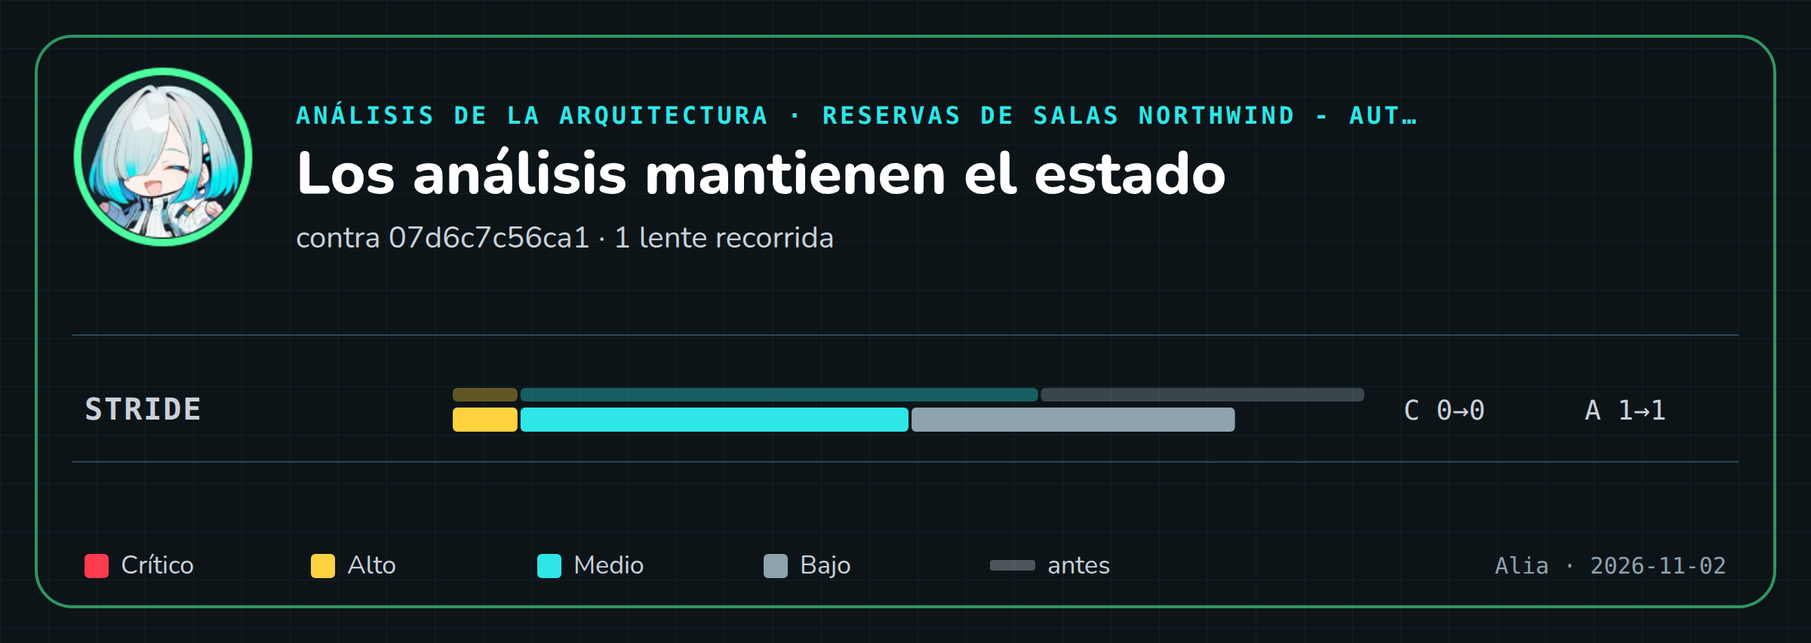
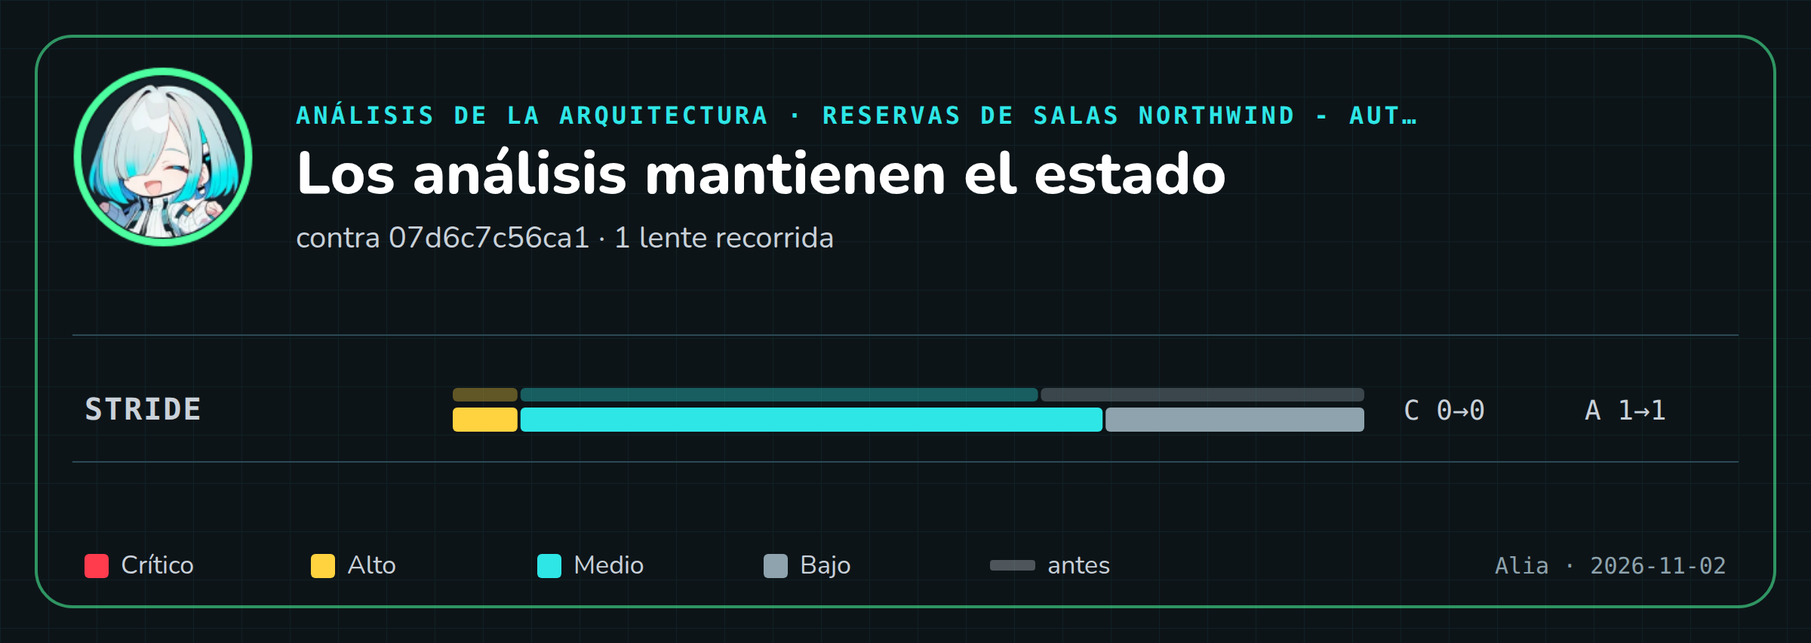
analysis: stride para #126

Changed region(s): [[0.5, 0.6103, 0.625, 0.6714], [0.6562, 0.6103, 0.7812, 0.6714]]

diff --git a/analysis/STRIDE-2026-11-02.md b/analysis/STRIDE-2026-11-02.md
@@ -8,13 +8,13 @@
 
 ## 1. Resumen Ejecutivo <!-- SECTION: Executive Summary -->
 
-La amenaza de mayor severidad es T7-D: la API pública del `Servicio de Reservas` (I-02, detrás del ingress) no documenta límite de tasa en el ingress ni en el servicio. Un cliente sin token puede saturar las 2 réplicas con solicitudes que terminan en 401 y dejar sin servicio a miembros y recepción de las 3 sedes.
+La amenaza de mayor severidad es T8-D: el ingress del clúster expone la API del `Servicio de Reservas` (I-02) a Internet sin un límite de tasa documentado. Un atacante sin token puede saturar las 2 réplicas, porque cada solicitud rechazada con 401 consume validación JWT.
 
-La postura general es buena en identidad y autorización: OIDC con PKCE (ADR-002), tokens de 5 minutos solo en memoria (ADR-104), validación RS256 con JWKS en cada solicitud, autorización por rol `recepcion` y atributo `sede` (ADR-105) y credenciales de base de datos desde el gestor de secretos del clúster (ADR-005). El análisis evalúa 5 fronteras de confianza y registra 12 hallazgos: 1 High, 6 Medium, 5 Low.
+El modelo cubre 5 fronteras de confianza y 30 evaluaciones STRIDE: 16 pasan y 14 son hallazgos (1 High, 9 Medium, 4 Low). La autenticación es sólida: OIDC con PKCE, tokens de 5 minutos solo en memoria (ADR-104), validación RS256 por JWKS en cada solicitud y autorización por rol `recepcion` y `sede` (ADR-105).
 
-Los hallazgos Medium se concentran en controles no documentados: integridad del Portal de Reservas en el CDN (CSP, SRI, TLS), cifrado en reposo de la `Base de Datos de Reservas`, privilegios del usuario PostgreSQL y del contenedor, inmutabilidad del registro de auditoría y la caché JWKS ante una caída del `Proveedor de Identidad Northwind`.
+Los hallazgos Medium se concentran en dos frentes. El primero es la entrega del `Portal de Reservas` por CDN, sin TLS, CSP ni SRI documentados (T1-S, T2-T). El segundo es la `Base de Datos de Reservas`, sin cifrado en reposo, privilegios mínimos del usuario ni inmutabilidad del registro de auditoría documentados (T10-T, T11-R, T12-I, T14-E).
 
-Prioridad de remediación: documentar e implementar límite de tasa por IP y por token en el ingress del clúster (T7-D), y luego CSP con SRI en el Portal de Reservas (T1-T).
+Prioridad de remediación: documentar e implementar el límite de tasa en el ingress (T8-D), y después TLS con HSTS y CSP en el CDN (T1-S, T2-T).
 
 ---
 
@@ -22,151 +22,151 @@ Prioridad de remediación: documentar e implementar límite de tasa por IP y por
 
 | ID | Name | From Zone | To Zone | Auth Mechanism | Data Classification | Source |
 |---|---|---|---|---|---|---|
-| TB-01 | Navegador (Internet) → `Portal de Reservas` en CDN | Internet pública (navegador del miembro o recepcionista) | CDN de Plataforma Northwind | None (archivos estáticos públicos, ADR-107) | Public (código de la SPA) | docs/09-operational-considerations.md § 11.1; adr/ADR-107 |
-| TB-02 | `Portal de Reservas` → `Proveedor de Identidad Northwind` (I-01) | Internet pública (SPA en el navegador) | Sistema externo: `Servidor de Identidad Northwind` (Keycloak 25) | OIDC código de autorización con PKCE (ADR-002) | Confidential (credenciales, tokens con rol `recepcion` y `sede`) | docs/07-security-architecture.md § 9.3; docs/05-integration-points.md § 7 I-01 |
-| TB-03 | `Portal de Reservas` → `Servicio de Reservas` por el ingress (I-02) | Internet pública (SPA en el navegador) | Interna: clúster Kubernetes de Plataforma Northwind | JWT RS256 en `Authorization: Bearer`, validado con JWKS en cada solicitud (ADR-002) | Confidential (nombre, correo y reservas del miembro) | docs/07-security-architecture.md § 9.3; docs/05-integration-points.md § 7 I-02 |
-| TB-04 | `Servicio de Reservas` → `Proveedor de Identidad Northwind` JWKS (I-03) | Interna: clúster Kubernetes | Sistema externo: `Servidor de Identidad Northwind` (Keycloak 25) | None (endpoint JWKS público por HTTPS con verificación del certificado) | Public (claves públicas de firma) | docs/07-security-architecture.md § 9.3; docs/05-integration-points.md § 7 I-03 |
-| TB-05 | `Servicio de Reservas` → `Base de Datos de Reservas` (I-04) | Interna: clúster Kubernetes | Datos: PostgreSQL 16 gestionado por Plataforma Northwind | Usuario PostgreSQL propio con credenciales del gestor de secretos del clúster; JDBC con TLS (ADR-005) | Confidential (datos personales y registro de auditoría) | docs/07-security-architecture.md § 9.3; docs/05-integration-points.md § 7 I-04 |
+| TB-01 | Navegador → CDN (`Portal de Reservas`) | Internet (navegador del miembro o recepcionista) | CDN de Plataforma Northwind | None (archivos estáticos públicos) | Public (código de la SPA) | docs/09-operational-considerations.md § 11.1; adr/ADR-107 |
+| TB-02 | `Portal de Reservas` → `Proveedor de Identidad Northwind` (I-01) | Internet (SPA en el navegador) | Sistema externo `Proveedor de Identidad Northwind` | OIDC código de autorización con PKCE (ADR-002) | Confidential (credenciales, tokens, rol `recepcion`, atributo `sede`) | docs/07-security-architecture.md § 9.3; docs/05-integration-points.md § 7 I-01 |
+| TB-03 | `Portal de Reservas` → Ingress → `Servicio de Reservas` (I-02) | Internet (SPA en el navegador) | Clúster Kubernetes de Plataforma Northwind | JWT RS256 en `Authorization: Bearer`, validado con JWKS en cada solicitud; TLS 1.2+ en el ingress | PII (nombre, correo y reservas del miembro) | docs/07-security-architecture.md § 9.3; docs/05-integration-points.md § 7 I-02 |
+| TB-04 | `Servicio de Reservas` → `Proveedor de Identidad Northwind` JWKS (I-03) | Clúster Kubernetes de Plataforma Northwind | Sistema externo `Proveedor de Identidad Northwind` | None (endpoint JWKS público por HTTPS con verificación del certificado) | Public (claves públicas JWKS) | docs/07-security-architecture.md § 9.3; docs/05-integration-points.md § 7 I-03 |
+| TB-05 | `Servicio de Reservas` → `Base de Datos de Reservas` (I-04) | Clúster Kubernetes de Plataforma Northwind | Capa de datos (PostgreSQL 16 gestionado por Plataforma Northwind) | Usuario PostgreSQL propio con credenciales del gestor de secretos del clúster; JDBC con TLS (ADR-005) | PII (reservas, nombre, correo) y registro de auditoría de cancelaciones | docs/07-security-architecture.md § 9.3; docs/05-integration-points.md § 7 I-04 |
 
 ## 3. Matriz STRIDE <!-- SECTION: STRIDE Matrix -->
 
-### TB-01 — TB-01 — Navegador (Internet) → Portal de Reservas en CDN
+### TB-01 — TB-01 — Navegador → CDN (`Portal de Reservas`)
 
-| Auth Mechanism: None (contenido estático público) | Data: Public |
+| Auth Mechanism: None (archivos estáticos públicos) | Data: Public (código de la SPA) |
 |---|---|
 
 | # | Threat | Category | Severity | Status | Control / Gap |
 |---|---|---|---|---|---|
-| — | Suplantación de usuario | S | — | ✅ Pass | La frontera no maneja identidad; la autenticación ocurre en TB-02 (ADR-002) |
-| T1-T | JavaScript del `Portal de Reservas` alterado en el CDN o en tránsito roba el token en memoria | T | Medium | ⚠ Finding | ADR-104 protege el almacenamiento del token, no la integridad del código; TLS del CDN, CSP y SRI: Not documented |
-| — | Negación de acciones | R | — | ✅ Pass | Sin operaciones de escritura en la frontera; archivos estáticos (ADR-107) |
-| — | Divulgación de información | I | — | ✅ Pass | Contenido público; la SPA no contiene datos personales ni secretos |
-| T2-D | Saturación del CDN deja el portal inaccesible | D | Low | ⚠ Finding | CDN de Plataforma Northwind (ADR-107); protección DDoS y capacidad: Not documented |
-| — | Elevación de privilegios | E | — | ✅ Pass | La frontera no otorga privilegios; la autorización vive en el `Servicio de Reservas` (ADR-105) |
+| T1-S | Un sitio falso suplanta el `Portal de Reservas` si el CDN no fuerza HTTPS | Spoofing | Medium | ⚠ Finding | TLS y HSTS del CDN: Not documented; docs/09 § 11.1 y ADR-107 solo nombran el CDN |
+| T2-T | Un JavaScript alterado en el CDN o inyectado por XSS lee los tokens en memoria | Tampering | Medium | ⚠ Finding | Content-Security-Policy y Subresource Integrity: Not documented; ADR-104 protege de `localStorage`, no de XSS |
+| — | Repudio de una acción en el portal estático | Repudiation | — | ✅ Pass | Contenido de solo lectura; las escrituras ocurren en TB-03 (docs/09 § 11.1) |
+| — | Divulgación del contenido del portal | Information Disclosure | — | ✅ Pass | Archivos estáticos públicos, sin datos personales (ADR-107) |
+| — | Indisponibilidad del portal por saturación | DoS | — | ✅ Pass | Distribución por el CDN de Plataforma Northwind (docs/09 § 11.1) |
+| — | Escalada de privilegios en el portal estático | Elevation of Privilege | — | ✅ Pass | Sin privilegios en esta frontera; la autorización ocurre en el `Servicio de Reservas` (ADR-105) |
 
-### TB-02 — TB-02 — Portal de Reservas → Proveedor de Identidad Northwind (I-01)
+### TB-02 — TB-02 — `Portal de Reservas` → `Proveedor de Identidad Northwind` (I-01)
 
-| Auth Mechanism: OIDC con PKCE (ADR-002) | Data: Confidential |
+| Auth Mechanism: OIDC código de autorización con PKCE (ADR-002) | Data: Confidential (credenciales, tokens, rol `recepcion`, atributo `sede`) |
 |---|---|
 
 | # | Threat | Category | Severity | Status | Control / Gap |
 |---|---|---|---|---|---|
-| — | Suplantación del usuario o interceptación del código | S | — | ✅ Pass | Código de autorización OIDC con PKCE; token de acceso de 5 minutos (ADR-002, ADR-104) |
-| — | Manipulación del intercambio de tokens | T | — | ✅ Pass | HTTPS en I-01; PKCE liga el código al cliente que lo pidió |
-| T3-R | Inicios de sesión y cambios de rol `recepcion` o `sede` sin rastro | R | Low | ⚠ Finding | Eventos de auditoría de Keycloak 25 (login, asignación de roles): Not documented |
-| — | Fuga de tokens | I | — | ✅ Pass | Tokens solo en memoria, nunca en `localStorage` ni `sessionStorage` (ADR-104) |
-| T4-D | Caída o saturación del `Proveedor de Identidad Northwind` bloquea todo inicio de sesión | D | Medium | ⚠ Finding | Sin sesión no hay operación (docs/04 Catálogo de Fases); límite de intentos de login y disponibilidad del IdP: Not documented |
-| — | Obtención de un rol no asignado | E | — | ✅ Pass | Rol `recepcion` y atributo `sede` viajan en el token firmado por el IdP (ADR-105) |
+| — | Suplantación de usuario o interceptación del código de autorización | Spoofing | — | ✅ Pass | OIDC con PKCE y token de acceso de 5 minutos (docs/07 § 9.3; ADR-002) |
+| — | Alteración del intercambio de tokens en tránsito | Tampering | — | ✅ Pass | HTTPS en I-01 y tokens firmados RS256 (docs/05 § 7; docs/07 § 9.2) |
+| T3-R | Un usuario niega un inicio de sesión o el uso de su cuenta | Repudiation | Low | ⚠ Finding | Registro de eventos de inicio de sesión en Keycloak 25: Not documented |
+| — | Robo de tokens desde el almacenamiento del navegador | Information Disclosure | — | ✅ Pass | Tokens solo en memoria, nunca en `localStorage` ni `sessionStorage` (ADR-104) |
+| T4-D | Fuerza bruta o saturación del inicio de sesión deja sin sesión a todos los usuarios | DoS | Medium | ⚠ Finding | Límite de intentos, bloqueo de cuenta y SLA del proveedor: Not documented; sin sesión no hay operación (docs/04 Catálogo de Fases) |
+| T5-E | Asignación indebida del rol `recepcion` o del atributo `sede` en el proveedor | Elevation of Privilege | Low | ⚠ Finding | Proceso de alta de roles y atributos en Keycloak 25: Not documented; solo consta la baja por Recepción (docs/07 § 9.3) |
 
-### TB-03 — TB-03 — Portal de Reservas → Servicio de Reservas por el ingress (I-02)
+### TB-03 — TB-03 — `Portal de Reservas` → Ingress → `Servicio de Reservas` (I-02)
 
-| Auth Mechanism: JWT RS256 validado con JWKS (ADR-002) | Data: Confidential |
+| Auth Mechanism: JWT RS256 validado con JWKS; TLS 1.2+ en el ingress | Data: PII (nombre, correo y reservas del miembro) |
 |---|---|
 
 | # | Threat | Category | Severity | Status | Control / Gap |
 |---|---|---|---|---|---|
-| — | Token falsificado o expirado | S | — | ✅ Pass | Validación RS256 con JWKS en cada solicitud; 401 sin token válido (ADR-002) |
-| — | Manipulación de solicitudes en tránsito | T | — | ✅ Pass | TLS 1.2 o superior en el ingress (ADR-005); validación de entradas por contrato OpenAPI 3.1 (ADR-001); `Idempotency-Key` (ADR-103) |
-| T5-R | Creación de reservas sin registro de auditoría dedicado | R | Low | ⚠ Finding | Auditoría solo por cancelación (ADR-106); auditoría de creaciones e intentos 403: Not documented |
-| T6-I | Tráfico en claro entre el ingress y los pods del `Servicio de Reservas` | I | Low | ⚠ Finding | TLS termina en el ingress; cifrado ingress → pod o mTLS: Not documented |
-| T7-D | Inundación de la API pública agota las 2 réplicas del `Servicio de Reservas` | D | High | ⚠ Finding | HPA de Kubernetes (docs/02 § 3); límite de tasa (RPS) en ingress o servicio: Not documented |
-| — | Cancelación de una reserva ajena | E | — | ✅ Pass | Deny by default; solo dueño o `recepcion` de la misma `sede` cancela (ADR-105) |
+| — | Llamada a la API con token falsificado o expirado | Spoofing | — | ✅ Pass | Validación RS256 con JWKS en cada solicitud; 401 sin token válido (docs/07 § 9.3; ADR-002) |
+| — | Alteración de solicitudes en tránsito o entradas malformadas | Tampering | — | ✅ Pass | TLS 1.2+ en el ingress; validación de entradas desde OpenAPI 3.1 (ADR-001); `Idempotency-Key` (ADR-103) |
+| T6-R | Un miembro niega haber creado una reserva | Repudiation | Medium | ⚠ Finding | La auditoría cubre solo cancelaciones (docs/07 § 9.4); auditoría de creación: Not documented |
+| T7-I | Tráfico con PII legible entre el ingress y los pods del servicio | Information Disclosure | Low | ⚠ Finding | TLS termina en el ingress (docs/07 § 9.1); cifrado ingress → pod: Not documented |
+| T8-D | Inundación sin autenticar de la API pública satura las 2 réplicas del `Servicio de Reservas` | DoS | High | ⚠ Finding | Límite de tasa en el ingress: Not documented; HPA mencionado en docs/02 § 3 sin máximo de réplicas |
+| — | Cancelación de una reserva ajena | Elevation of Privilege | — | ✅ Pass | Solo el dueño o `recepcion` de la misma `sede`; respuesta 403 en otro caso (ADR-105; docs/07 § 9.3) |
 
-### TB-04 — TB-04 — Servicio de Reservas → Proveedor de Identidad Northwind JWKS (I-03)
+### TB-04 — TB-04 — `Servicio de Reservas` → `Proveedor de Identidad Northwind` JWKS (I-03)
 
-| Auth Mechanism: None (JWKS público por HTTPS) | Data: Public |
+| Auth Mechanism: None (endpoint JWKS público, HTTPS con verificación del certificado) | Data: Public (claves públicas JWKS) |
 |---|---|
 
 | # | Threat | Category | Severity | Status | Control / Gap |
 |---|---|---|---|---|---|
-| — | Endpoint JWKS suplantado | S | — | ✅ Pass | HTTPS con verificación del certificado del proveedor (docs/07 § 9.3) |
-| — | Claves alteradas en tránsito | T | — | ✅ Pass | TLS con verificación del certificado en I-03 |
-| — | Negación de acciones | R | — | ✅ Pass | Lectura de claves públicas; sin acción de usuario que auditar |
-| — | Divulgación de información | I | — | ✅ Pass | Las claves JWKS son públicas por diseño |
-| T8-D | JWKS no disponible con caché vacía o vencida rechaza todas las solicitudes | D | Medium | ⚠ Finding | Caché local de claves y deny by default (docs/05 I-03); TTL de la caché y circuit breaker: Not documented |
-| — | Elevación de privilegios | E | — | ✅ Pass | I-03 no otorga privilegios; solo entrega claves de verificación |
+| — | Endpoint JWKS falso entrega claves del atacante | Spoofing | — | ✅ Pass | HTTPS con verificación del certificado del proveedor (docs/07 § 9.3) |
+| — | Alteración de las claves en tránsito | Tampering | — | ✅ Pass | HTTPS en I-03 (docs/05 § 7) |
+| — | Repudio de la obtención de claves | Repudiation | — | ✅ Pass | Solo lectura de claves públicas; sin operación de escritura (docs/05 § 7 I-03) |
+| — | Divulgación de datos en la consulta JWKS | Information Disclosure | — | ✅ Pass | Solo viajan claves públicas, sin credencial de cliente (docs/07 § 9.3) |
+| T9-D | Caída del proveedor más allá de la caché de claves rechaza todas las solicitudes | DoS | Medium | ⚠ Finding | Caché local de claves (docs/05 § 7 I-03); TTL de la caché y circuit breaker: Not documented |
+| — | Escalada de privilegios mediante la integración JWKS | Elevation of Privilege | — | ✅ Pass | Sin credencial ni privilegio en I-03; deny by default sin claves (docs/05 § 7) |
 
-### TB-05 — TB-05 — Servicio de Reservas → Base de Datos de Reservas (I-04)
+### TB-05 — TB-05 — `Servicio de Reservas` → `Base de Datos de Reservas` (I-04)
 
-| Auth Mechanism: Usuario PostgreSQL con credenciales del gestor de secretos; JDBC con TLS | Data: Confidential |
+| Auth Mechanism: Usuario PostgreSQL propio, credenciales del gestor de secretos; JDBC con TLS | Data: PII (reservas, nombre, correo) y registro de auditoría |
 |---|---|
 
 | # | Threat | Category | Severity | Status | Control / Gap |
 |---|---|---|---|---|---|
-| — | Cliente que suplanta al servicio ante la base de datos | S | — | ✅ Pass | Usuario PostgreSQL propio; credenciales del gestor de secretos del clúster, nunca en imagen ni repositorio (ADR-005) |
-| — | Manipulación de datos en tránsito | T | — | ✅ Pass | JDBC con TLS; un solo escritor (ADR-003); restricción de exclusión (ADR-102) |
-| T9-R | Registro de auditoría de cancelaciones modificable por el mismo usuario que lo escribe | R | Medium | ⚠ Finding | Auditoría en la misma transacción (docs/07 § 9.4, ADR-106); inmutabilidad (solo INSERT, append-only): Not documented |
-| T10-I | Datos personales expuestos desde almacenamiento o respaldos | I | Medium | ⚠ Finding | Cifrado en reposo de PostgreSQL 16 y ubicación de los respaldos de 30 días: Not documented |
-| T11-D | Agotamiento de conexiones de la `Base de Datos de Reservas` | D | Low | ⚠ Finding | Una conexión `LISTEN` por réplica fuera del pool (ADR-109); tamaño del pool y `max_connections`: Not documented |
-| T12-E | Un pod comprometido usa privilegios amplios en la base de datos o el clúster | E | Medium | ⚠ Finding | Privilegios del usuario PostgreSQL (DML vs DDL), contenedor sin root y NetworkPolicy: Not documented |
+| — | Otro componente se conecta como el `Servicio de Reservas` | Spoofing | — | ✅ Pass | Usuario PostgreSQL propio con credenciales del gestor de secretos del clúster, nunca en la imagen (ADR-005; docs/07 § 9.3) |
+| T10-T | Alteración de reservas o respaldos con acceso al almacenamiento de PostgreSQL 16 | Tampering | Medium | ⚠ Finding | JDBC con TLS en tránsito; cifrado en reposo de datos y respaldos: Not documented (docs/07 § 9.3 solo dice "gestionado") |
+| T11-R | Un usuario con la credencial del servicio altera o borra el registro de auditoría de cancelaciones | Repudiation | Medium | ⚠ Finding | Auditoría en la misma transacción y la misma base (docs/07 § 9.4); inmutabilidad o separación del registro: Not documented |
+| T12-I | Divulgación de PII desde discos o respaldos que conservan datos purgados hasta 30 días | Information Disclosure | Medium | ⚠ Finding | Cifrado en reposo y ubicación de respaldos: Not documented (docs/09 § 11.3); purga a 24 meses (ADR-106) |
+| T13-D | Agotamiento de conexiones de la base por el pool y las conexiones `LISTEN` por réplica | DoS | Low | ⚠ Finding | Tamaño del pool y límite de conexiones de PostgreSQL 16: Not documented; conexión `LISTEN` fuera del pool (ADR-109) |
+| T14-E | Un pod comprometido usa privilegios amplios del usuario de base de datos o se mueve lateralmente | Elevation of Privilege | Medium | ⚠ Finding | Permisos del usuario PostgreSQL, contenedor non-root y network policies: Not documented; imagen firmada (ADR-005) |
 
 ## 4. Amenazas de Alta Prioridad <!-- SECTION: High-Priority Threats -->
 
 | # | Trust Boundary | STRIDE Category | Threat Description | Recommended Mitigation | ADR Reference |
 |---|---|---|---|---|---|
-| T7-D | TB-03 — `Portal de Reservas` → `Servicio de Reservas` (I-02) | D | La API pública no documenta límite de tasa; solicitudes sin token consumen las 2 réplicas antes del 401 y degradan el servicio para las 3 sedes. | Límite de tasa por IP y por `sub` del token en el ingress del clúster, con valor RPS documentado en docs/08; respuesta 429 y alerta asociada. | ADR-005 (ingress); límite de tasa: Not documented |
+| T8-D | TB-03 — `Portal de Reservas` → Ingress → `Servicio de Reservas` (I-02) | DoS | La API pública acepta tráfico sin autenticar hasta el `Servicio de Reservas`; sin límite de tasa, una inundación satura las 2 réplicas y afecta a todos los usuarios de las 3 sedes. | Límite de tasa por IP y por `sub` del token en el Ingress del clúster, con respuesta 429; HPA con máximo de réplicas documentado. | ADR-005 |
 
 ## 5. Mapa de Calor <!-- SECTION: Heat Map -->
 
 ```
 SEVERITY │
-HIGH     │                                │                                │ [T7-D]                         
-         ├────────────────────────────────┼────────────────────────────────┼────────────────────────────────
-MID      │ [T8-D] [T9-R] [T10-I] [T12-E]  │ [T1-T]                         │ [T4-D]                         
-         ├────────────────────────────────┼────────────────────────────────┼────────────────────────────────
-LOW      │ [T3-R] [T6-I]                  │ [T5-R] [T11-D]                 │ [T2-D]                         
-         └────────────────────────────────┴────────────────────────────────┴────────────────────────────────
-           INSIDER                         MID                             PUBLIC                          
+HIGH     │                                         │                                         │ [T8-D]                                  
+         ├─────────────────────────────────────────┼─────────────────────────────────────────┼─────────────────────────────────────────
+MID      │ [T9-D] [T10-T] [T11-R] [T12-I] [T14-E]  │ [T2-T] [T6-R]                           │ [T1-S] [T4-D]                           
+         ├─────────────────────────────────────────┼─────────────────────────────────────────┼─────────────────────────────────────────
+LOW      │ [T3-R] [T5-E] [T7-I] [T13-D]            │                                         │                                         
+         └─────────────────────────────────────────┴─────────────────────────────────────────┴─────────────────────────────────────────
+           INSIDER                                  MID                                      PUBLIC                                   
            EXPLOITABILITY →
 ```
 
 ## 6. Top 5 Recomendaciones de Mitigación <!-- SECTION: Top 5 Remediation Recommendations -->
 
-**1. Límite de tasa en el ingress del clúster (T7-D)**
-Configurar límite de tasa por IP y por `sub` del token en el ingress de Plataforma Northwind, con respuesta 429, y documentar el valor RPS en docs/08. El costo aceptado: rechazos legítimos en picos de reserva. Reduce la indisponibilidad por inundación de I-02.
-_Fuente: docs/07-security-architecture.md § 9.1; docs/05-integration-points.md § 7 I-02_
+**1. Límite de tasa en el Ingress del clúster (T8-D)**
+Configurar un límite de tasa por IP y por `sub` del token en el Ingress delante del `Servicio de Reservas` (I-02), con respuesta 429, y documentar el máximo del HPA. El costo aceptado es ajustar el umbral a los picos de reserva. Reduce la saturación sin autenticar de las 2 réplicas.
+_Fuente: docs/07-security-architecture.md § 9.1; docs/02-architecture-principles.md § 3; adr/ADR-005_
 
-**2. CSP y SRI para el Portal de Reservas (T1-T)**
-Publicar el `Portal de Reservas` con HTTPS obligatorio en el CDN, cabecera Content-Security-Policy restrictiva y Subresource Integrity en los scripts. El costo aceptado: gestión de hashes por despliegue. Reduce el robo de tokens en memoria por código alterado.
-_Fuente: adr/ADR-104; adr/ADR-107_
+**2. TLS y HSTS en el CDN del portal (T1-S)**
+Documentar y forzar HTTPS con TLS 1.2+ y cabecera HSTS en el CDN de Plataforma Northwind que sirve el `Portal de Reservas`. Reduce la suplantación del portal y la captura de credenciales antes de la redirección OIDC.
+_Fuente: docs/09-operational-considerations.md § 11.1; adr/ADR-107_
 
-**3. Protección del inicio de sesión en el Proveedor de Identidad Northwind (T4-D)**
-Documentar la disponibilidad objetivo del `Servidor de Identidad Northwind` (Keycloak 25) y activar la detección de fuerza bruta de Keycloak. El costo aceptado: bloqueos temporales de cuentas. Reduce la denegación del inicio de sesión en I-01.
-_Fuente: docs/05-integration-points.md § 7 I-01; adr/ADR-002_
+**3. Content-Security-Policy y Subresource Integrity (T2-T)**
+Publicar el `Portal de Reservas` con una CSP estricta (`script-src 'self'`) y SRI en los recursos del CDN. ADR-104 deja los tokens en memoria, por lo que un script inyectado los lee; la CSP cierra ese camino. El costo es restringir scripts de terceros.
+_Fuente: docs/07-security-architecture.md § 9.2; adr/ADR-104; adr/ADR-107_
 
-**4. Cifrado en reposo y ubicación de respaldos (T10-I)**
-Confirmar con Plataforma Northwind cifrado AES-256 en reposo para PostgreSQL 16 y sus respaldos de 30 días, y documentar la ubicación de los respaldos en docs/09 § 11.3. Reduce la exposición de nombre, correo y reservas desde almacenamiento.
-_Fuente: docs/07-security-architecture.md § 9.3; docs/09-operational-considerations.md § 11.3_
+**4. Protección contra fuerza bruta en Keycloak 25 (T4-D)**
+Activar y documentar la detección de fuerza bruta de Keycloak 25 en el `Servidor de Identidad Northwind` (I-01) y el SLA del `Proveedor de Identidad Northwind`. Sin sesión no hay operación, así que su disponibilidad condiciona todo el sistema.
+_Fuente: docs/07-security-architecture.md § 9.3; docs/05-integration-points.md § 7 I-01_
 
-**5. Mínimo privilegio para el usuario PostgreSQL y el contenedor (T12-E)**
-Separar el usuario de migraciones (DDL) del usuario de ejecución (solo DML), ejecutar el contenedor sin root y aplicar NetworkPolicy que limite el acceso a la `Base de Datos de Reservas` al `Servicio de Reservas`. El costo aceptado: dos credenciales en el gestor de secretos.
-_Fuente: docs/07-security-architecture.md § 9.3; adr/ADR-005_
+**5. Cifrado en reposo de la base y los respaldos (T12-I)**
+Confirmar con Plataforma Northwind el cifrado AES-256 en reposo de PostgreSQL 16 y de los respaldos diarios, y documentar su ubicación en docs/09 § 11.3. Cubre también T10-T. Reduce la exposición de PII purgada que los respaldos conservan hasta 30 días.
+_Fuente: docs/07-security-architecture.md § 9.3; docs/09-operational-considerations.md § 11.3; adr/ADR-003_
 
 ---
 
 ## 7. Fortalezas de la Arquitectura de Seguridad <!-- SECTION: Security Architecture Strengths -->
 
-- Autenticación OIDC con PKCE contra el `Proveedor de Identidad Northwind` y token de acceso de 5 minutos (adr/ADR-002; docs/07-security-architecture.md § 9.3).
-- Tokens solo en memoria del `Portal de Reservas`, nunca en `localStorage` ni `sessionStorage` (adr/ADR-104).
-- Deny by default: el `Servicio de Reservas` valida RS256 con JWKS en cada solicitud y responde 401 sin token válido (docs/05-integration-points.md § 7 I-02, I-03).
-- Autorización por rol `recepcion` y atributo `sede`; solo el dueño o la recepción de su sede cancela (adr/ADR-105).
-- Credenciales de la `Base de Datos de Reservas` desde el gestor de secretos del clúster, JDBC con TLS y auditoría de cancelaciones en la misma transacción (adr/ADR-005; adr/ADR-106).
+- Autenticación OIDC con PKCE y token de acceso de 5 minutos solo en memoria del `Portal de Reservas` (docs/07 § 9.3; ADR-002; ADR-104).
+- Deny by default: el `Servicio de Reservas` valida RS256 con JWKS en cada solicitud y responde 401 sin token válido, incluso sin claves disponibles (docs/07 § 9.1; docs/05 § 7 I-03).
+- Autorización por dueño o rol `recepcion` acotado por el atributo `sede`, con 403 en otro caso (ADR-105; docs/07 § 9.3).
+- Credenciales de la `Base de Datos de Reservas` en el gestor de secretos del clúster, nunca en la imagen ni el repositorio; JDBC con TLS (docs/07 § 9.3; ADR-005).
+- Auditoría de cada cancelación en la misma transacción, retención de 24 meses con purga programada (docs/07 § 9.4; ADR-106).
 
 ## 8. Veredicto <!-- SECTION: Summary Verdict -->
 
-La arquitectura resuelve bien identidad y autorización: OIDC con PKCE, tokens de 5 minutos en memoria, validación JWKS en cada solicitud, autorización por rol y `sede`, y secretos fuera de la imagen. El riesgo dominante es de disponibilidad y de controles de plataforma no documentados: límite de tasa, integridad del portal en el CDN, cifrado en reposo y mínimo privilegio. El conjunto mínimo de remediación es T7-D, T1-T y T10-I.
+La arquitectura resuelve bien la identidad y la autorización: OIDC con PKCE, tokens de 5 minutos en memoria, validación JWKS por solicitud y autorización por rol y `sede`. El riesgo dominante es la ausencia documentada de controles perimetrales y de protección de datos en reposo: límite de tasa, TLS/CSP en el CDN y cifrado de la `Base de Datos de Reservas`. El conjunto mínimo de remediación es T8-D, T1-S, T2-T y T12-I.
 
 ---
 
 ## 9. Brechas de Documentación <!-- SECTION: Documentation Gaps -->
 
-- [ ] `[NOT DOCUMENTED]` `Servicio de Reservas` (I-02) — Límite de tasa (RPS) en el ingress o en el servicio (docs/08-scalability-and-performance.md; docs/07-security-architecture.md § 9.3)
-- [ ] `[NOT DOCUMENTED]` `Portal de Reservas` en CDN — TLS del CDN, Content-Security-Policy, Subresource Integrity y protección DDoS (docs/07-security-architecture.md § 9.3; adr/ADR-107)
-- [ ] `[NOT DOCUMENTED]` `Servidor de Identidad Northwind` — Eventos de auditoría de login y asignación de roles, protección de fuerza bruta, disponibilidad y versión del componente (docs/components/proveedor-de-identidad-northwind.md; docs/07-security-architecture.md § 9.5)
-- [ ] `[NOT DOCUMENTED]` `Servicio de Reservas` (I-03) — TTL de la caché JWKS y comportamiento ante caída del proveedor (docs/05-integration-points.md § 7 I-03)
-- [ ] `[NOT DOCUMENTED]` `Servicio de Reservas` (I-02) — Cifrado entre el ingress y los pods; auditoría de creaciones e intentos 403 (docs/07-security-architecture.md § 9.3)
-- [ ] `[NOT DOCUMENTED]` `Base de Datos de Reservas` — Cifrado en reposo, ubicación de respaldos, inmutabilidad del registro de auditoría, tamaño del pool y `max_connections` (docs/07-security-architecture.md § 9.3; docs/09-operational-considerations.md § 11.3)
-- [ ] `[NOT DOCUMENTED]` `Servicio de Reservas` (I-04) — Privilegios del usuario PostgreSQL, ejecución sin root y NetworkPolicy (docs/components/reservas-de-salas-northwind/02-servicio-de-reservas.md; docs/09-operational-considerations.md § 11.1)
+- [ ] `[NOT DOCUMENTED]` CDN del `Portal de Reservas` — TLS, HSTS, Content-Security-Policy y Subresource Integrity (docs/07-security-architecture.md § 9.3; adr/ADR-107)
+- [ ] `[NOT DOCUMENTED]` `Proveedor de Identidad Northwind` — Registro de eventos de inicio de sesión, protección contra fuerza bruta, SLA y proceso de alta del rol `recepcion` y del atributo `sede` (docs/07-security-architecture.md § 9.3)
+- [ ] `[NOT DOCUMENTED]` `Servicio de Reservas` — Auditoría de la creación de reservas (docs/07-security-architecture.md § 9.4)
+- [ ] `[NOT DOCUMENTED]` Ingress del clúster — Límite de tasa y cifrado entre el ingress y los pods (docs/07-security-architecture.md § 9.3; docs/08-scalability-and-performance.md)
+- [ ] `[NOT DOCUMENTED]` I-03 JWKS — TTL de la caché de claves y circuit breaker (docs/05-integration-points.md § 7 I-03)
+- [ ] `[NOT DOCUMENTED]` `Base de Datos de Reservas` — Cifrado en reposo, ubicación de respaldos, inmutabilidad del registro de auditoría, permisos del usuario PostgreSQL y límite de conexiones (docs/07-security-architecture.md § 9.3; docs/09-operational-considerations.md § 11.3)
+- [ ] `[NOT DOCUMENTED]` `Servicio de Reservas` (contenedor) — Ejecución non-root y network policies (docs/components/reservas-de-salas-northwind/02-servicio-de-reservas.md; docs/09-operational-considerations.md § 11.1)
 - [ ] `[NOT DOCUMENTED]` Respuesta a incidentes — Plan de respuesta a incidentes de seguridad (docs/07-security-architecture.md § 9.5)
 
 ---
